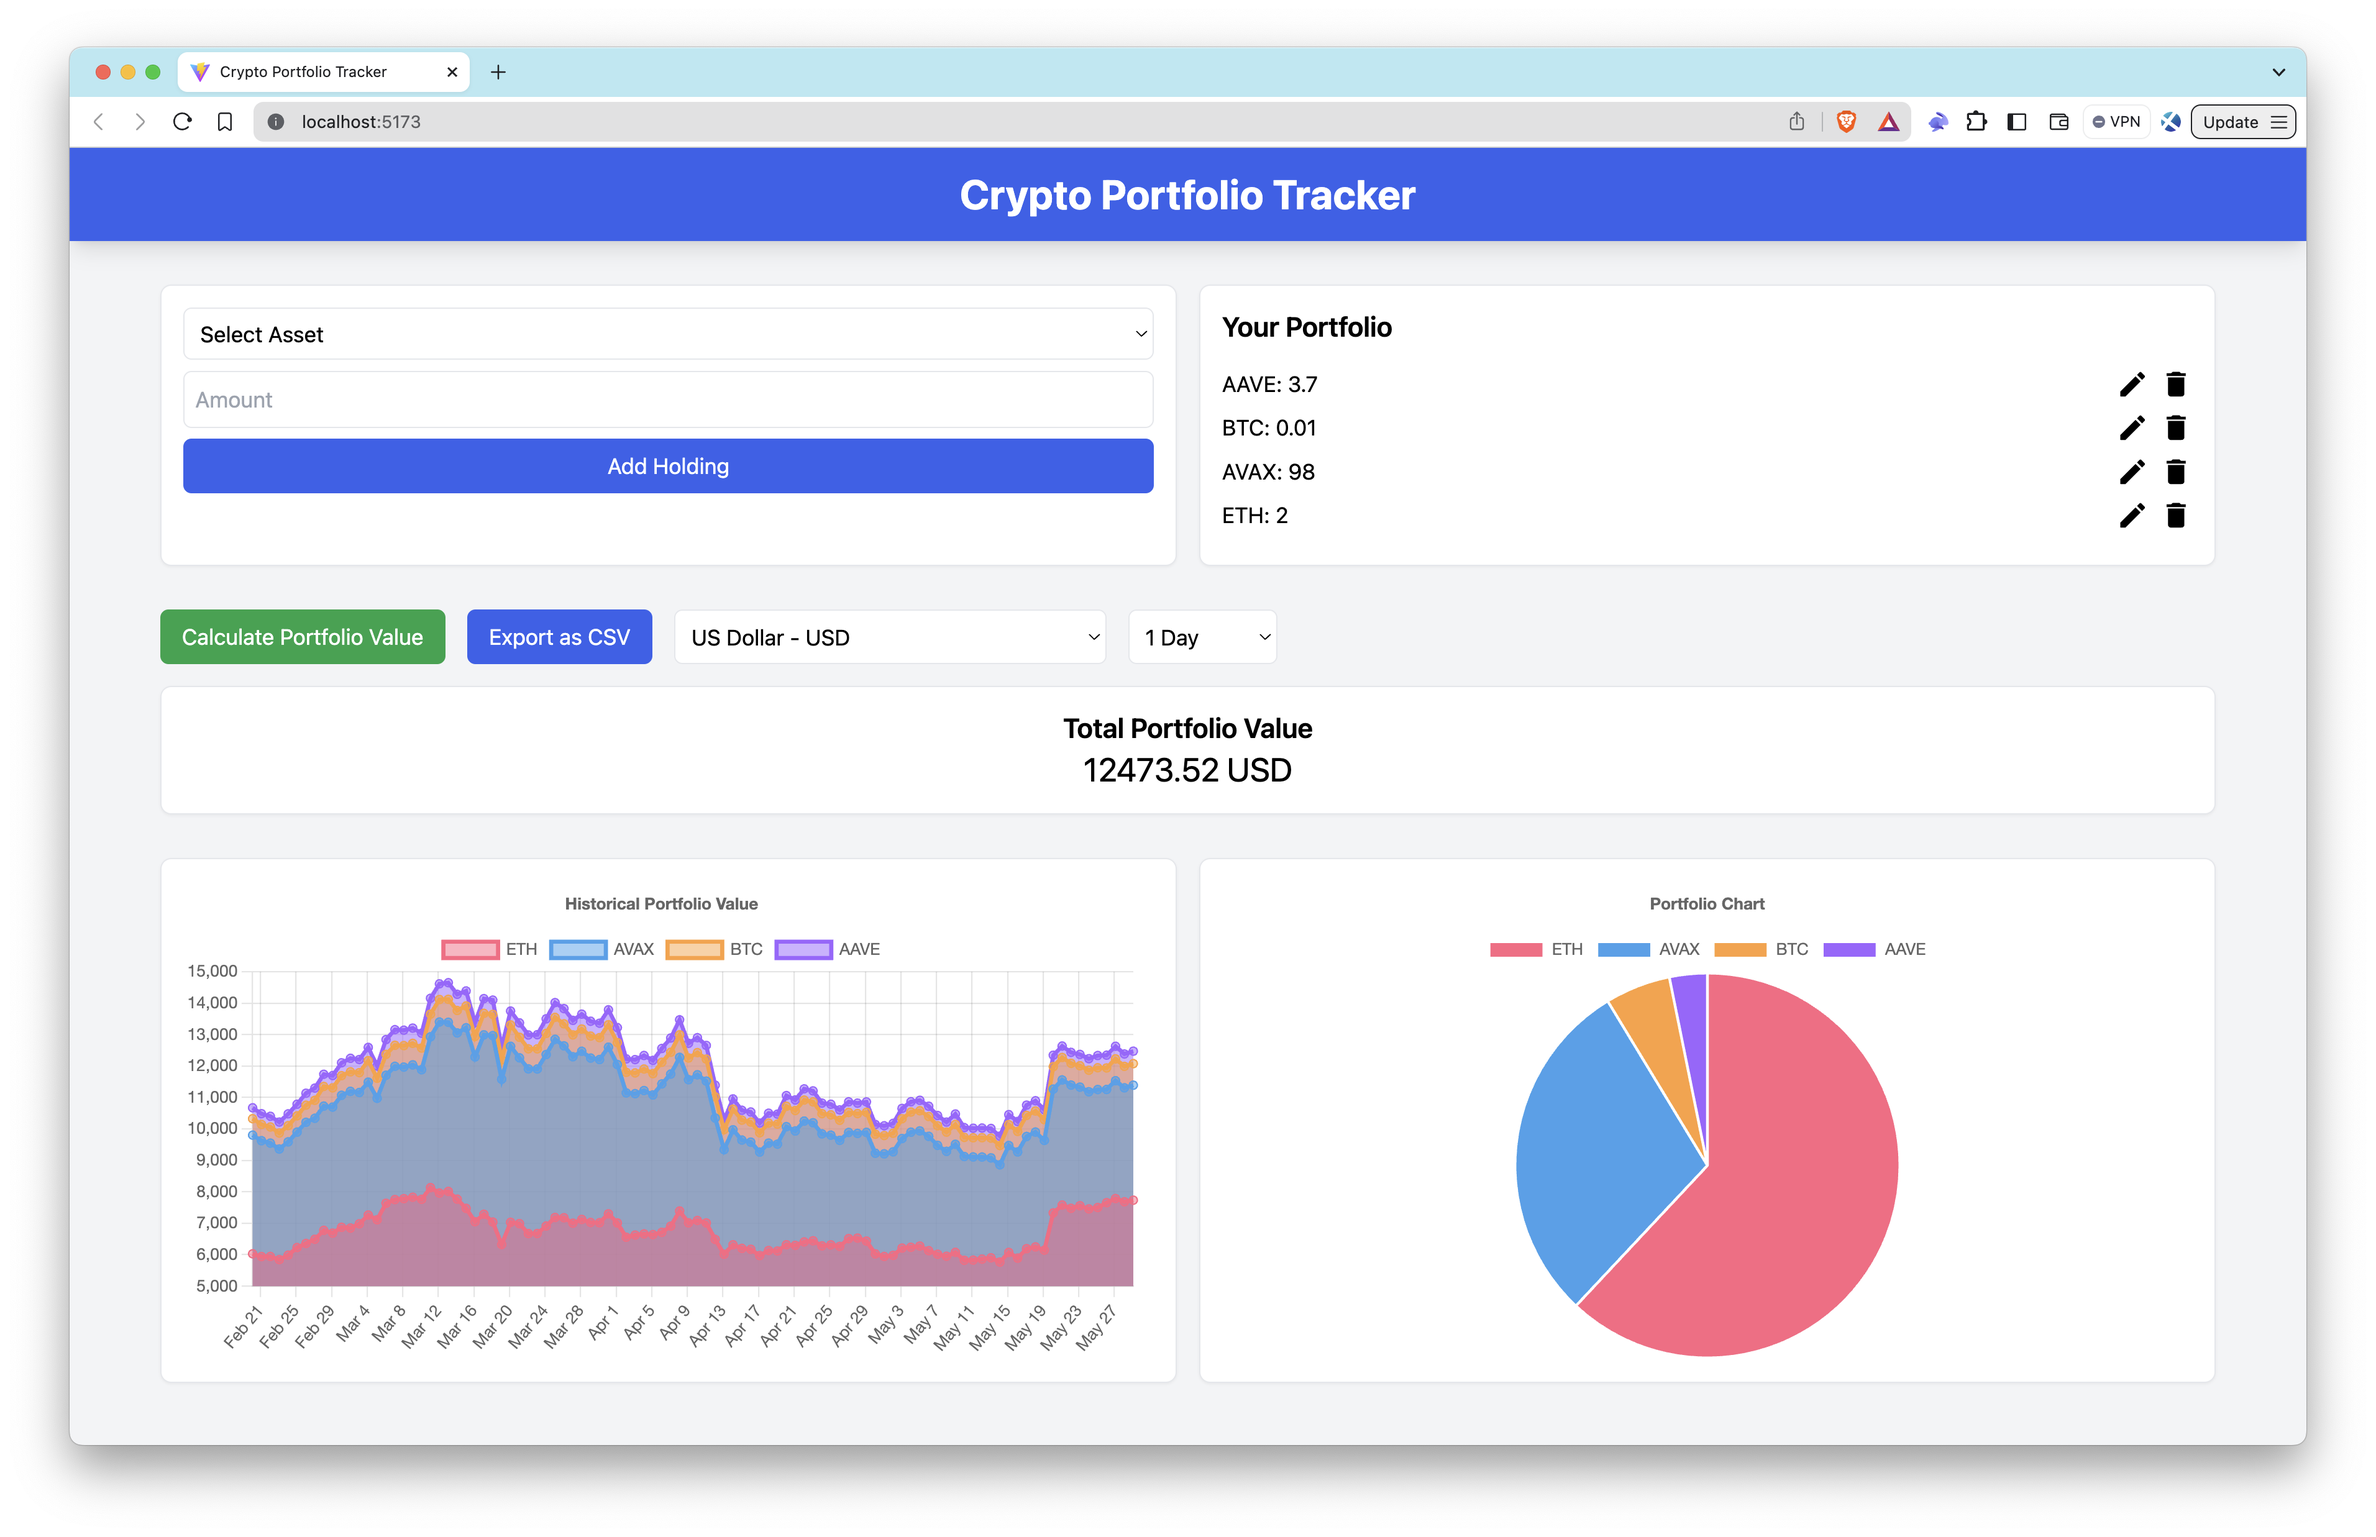
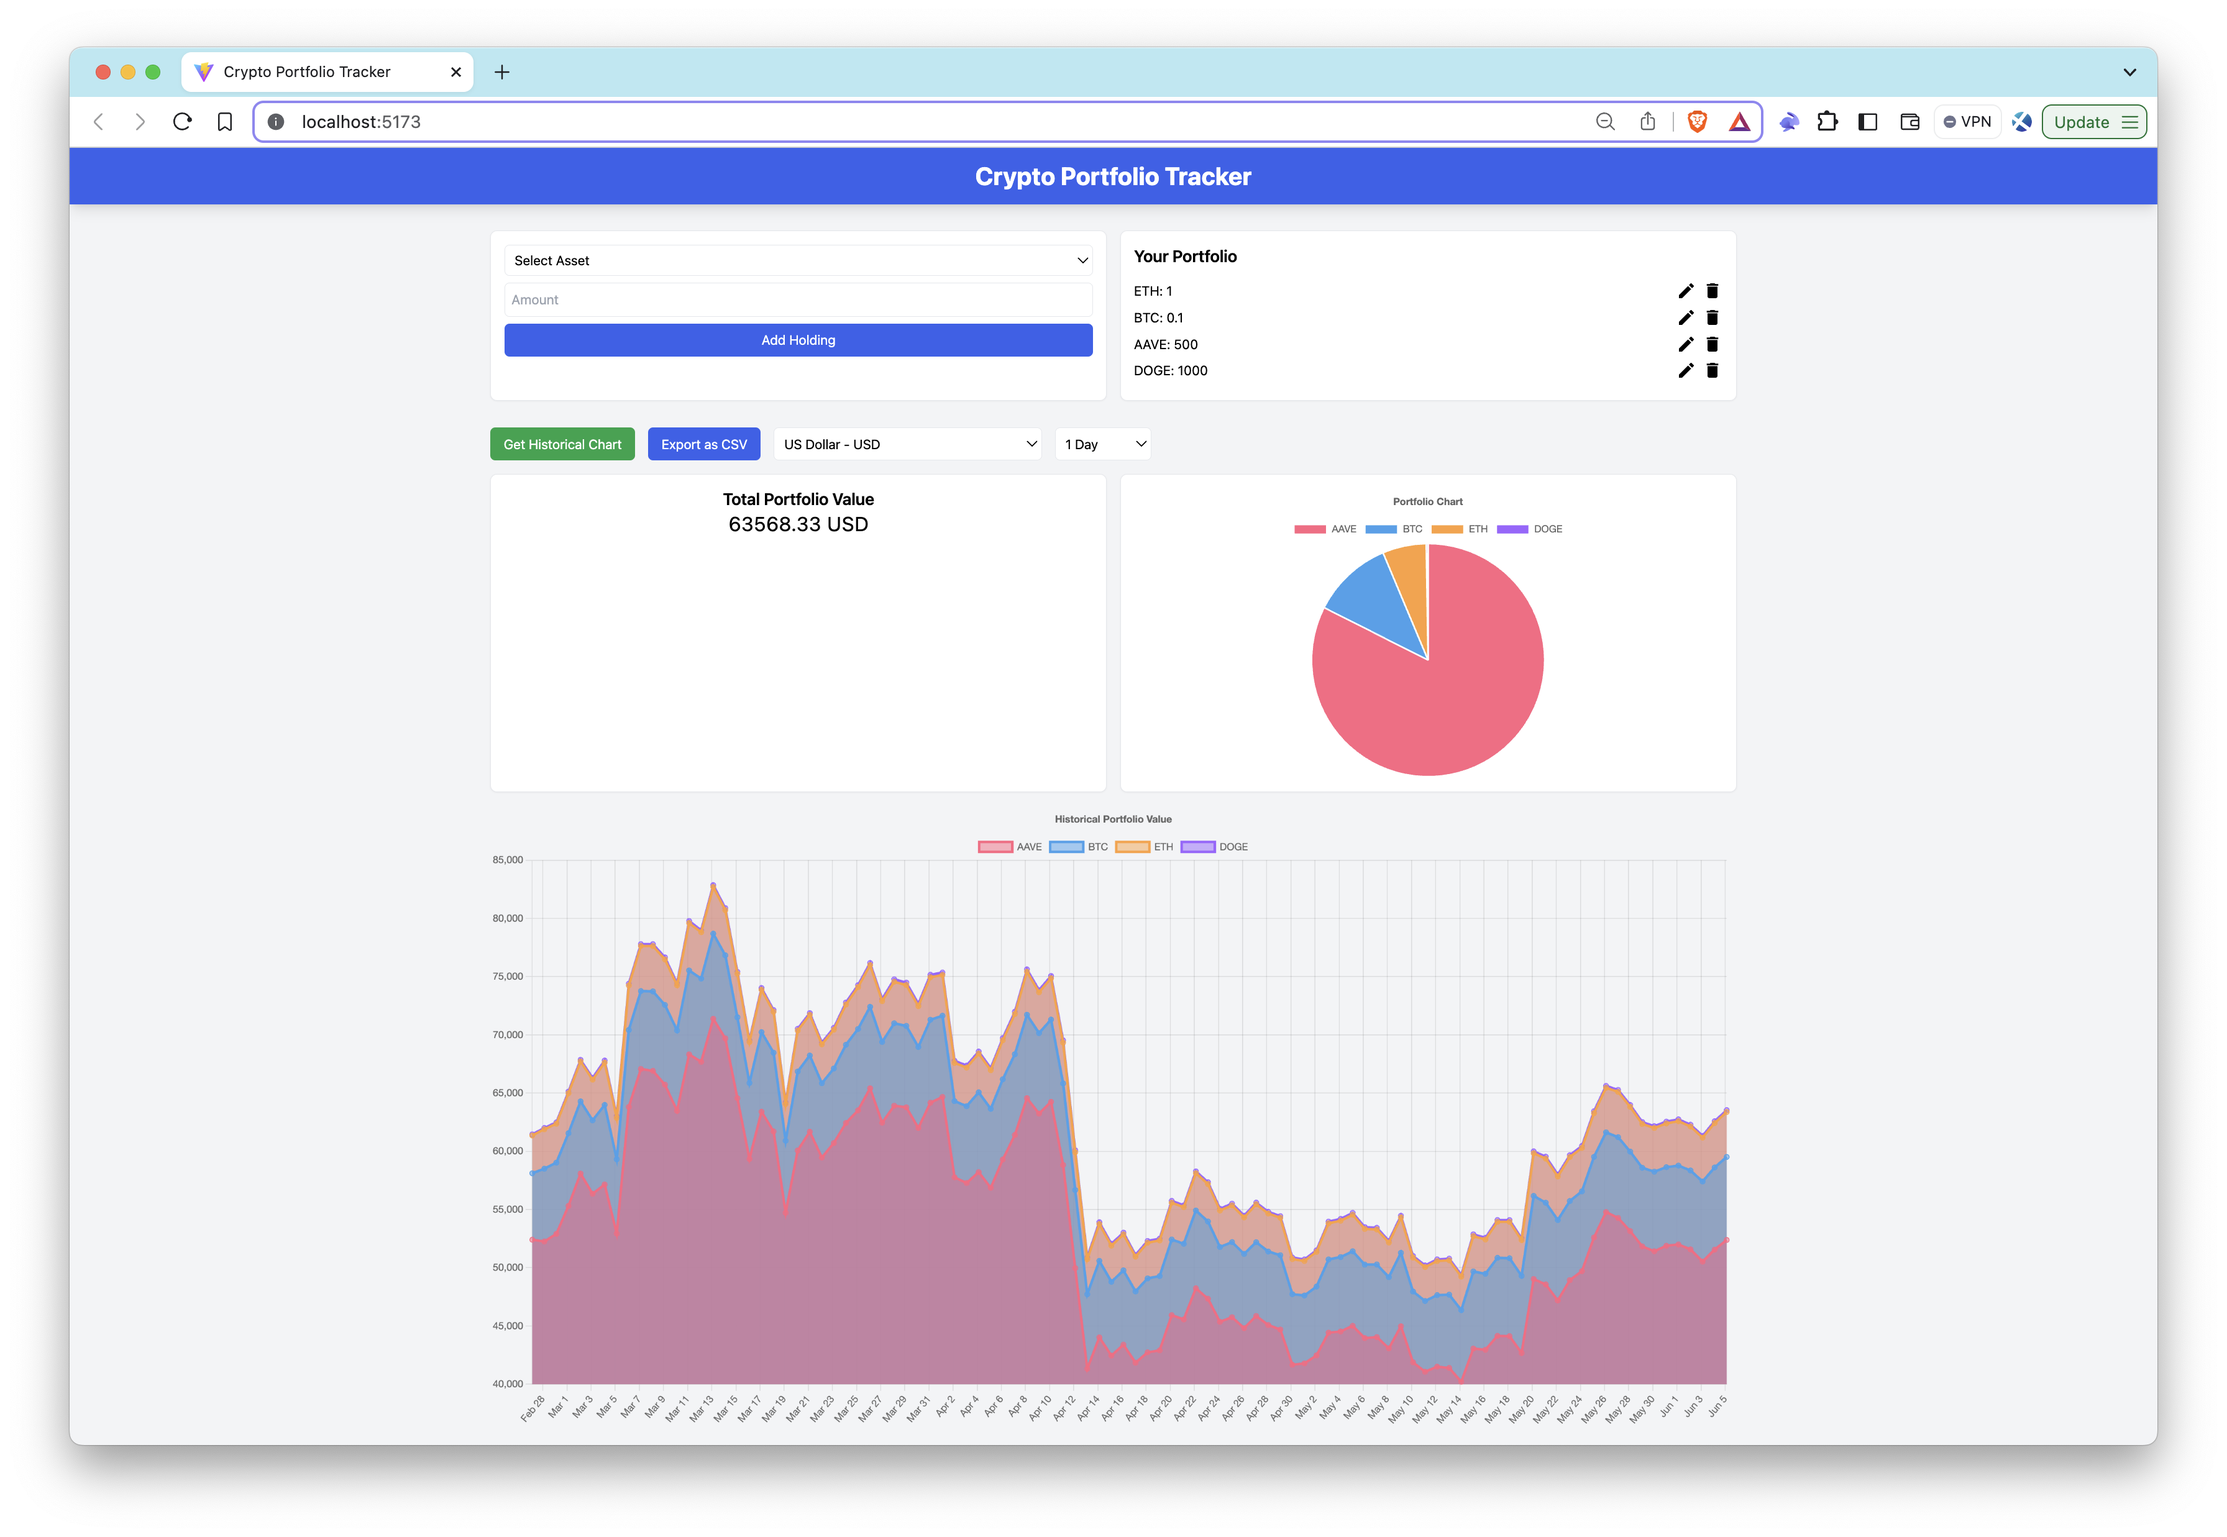
updating current values after each update on the portfolio

diff --git a/sample-dapps/crypto-portfolio-tracker-with-the-crypto-market-data-api/src/App.tsx b/sample-dapps/crypto-portfolio-tracker-with-the-crypto-market-data-api/src/App.tsx
@@ -13,6 +13,7 @@ import {
   updateHolding,
   removeHolding,
   fetchPortfolioData,
+  fetchTotalPortfolioValue,
   handleExportCSV,
 } from "./utils/portfolioUtils";
 
@@ -36,8 +37,6 @@ const App: React.FC = () => {
   const [initialized, setInitialized] = useState(false);
   const [loading, setLoading] = useState(false);
 
-
-
   useEffect(() => {
     // Load holdings from local storage
     const storedHoldings = localStorage.getItem("holdings");
@@ -60,9 +59,20 @@ const App: React.FC = () => {
     if (initialized) {
       // Save holdings to local storage
       localStorage.setItem("holdings", JSON.stringify(holdings));
-      // Clear results when holdings change
-      setTotalValue(0);
+      // // Clear results when holdings change
+      // setTotalValue(0);
       setHistoricalData([]);
+      // Automatically fetch total portfolio value
+      const fetchTotalValue = async () => {
+        await fetchTotalPortfolioValue(
+          holdings,
+          currency,
+          setExchangeRates,
+          setTotalValue,
+          setLoading
+        );
+      };
+      fetchTotalValue();
     }
   }, [holdings, currency, initialized]);
 
@@ -113,10 +123,9 @@ const App: React.FC = () => {
 
         {!loading && totalValue !== 0 && (
           <div>
-            <PortfolioSummary totalValue={totalValue} currency={currency} />
             <div className="flex space-x-4">
-              <div className="w-1/2 my-4 p-4 border rounded-lg shadow-sm bg-white h-96">
-                <HistoricalChart data={historicalData} currency={currency} />
+              <div className="w-1/2 my-4 p-4 border rounded-lg shadow-sm bg-white h-96 text-center">
+                <PortfolioSummary totalValue={totalValue} currency={currency} />
               </div>
               <div className="w-1/2 my-4 p-4 border rounded-lg shadow-sm bg-white h-96">
                 <PortfolioPieChart
@@ -126,6 +135,7 @@ const App: React.FC = () => {
                 />
               </div>
             </div>
+            <HistoricalChart data={historicalData} currency={currency} />
           </div>
         )}
       </div>

diff --git a/sample-dapps/crypto-portfolio-tracker-with-the-crypto-market-data-api/src/utils/portfolioUtils.ts b/sample-dapps/crypto-portfolio-tracker-with-the-crypto-market-data-api/src/utils/portfolioUtils.ts
@@ -103,6 +103,42 @@ export const fetchPortfolioData = async (
   }
 };
 
+export const fetchTotalPortfolioValue = async (
+  holdings: PortfolioHolding[],
+  currency: string,
+  setExchangeRates: (rates: { [key: string]: number }) => void,
+  setTotalValue: (value: number) => void,
+  setLoading: (loading: boolean) => void
+) => {
+  try {
+    setLoading(true);
+
+    const currentRates = await Promise.all(
+      holdings.map((holding) =>
+        fetchCurrentExchangeRates(holding.asset, currency)
+      )
+    );
+
+    const exchangeRatesMap: { [key: string]: number } = {};
+    currentRates.forEach((rate) => {
+      exchangeRatesMap[`${rate.asset_id_base}-${rate.asset_id_quote}`] =
+        rate.rate;
+    });
+    setExchangeRates(exchangeRatesMap);
+
+    const totalValue = holdings.reduce((acc, holding) => {
+      const rate = exchangeRatesMap[`${holding.asset}-${currency}`] || 0;
+      return acc + holding.amount * rate;
+    }, 0);
+
+    setTotalValue(totalValue);
+  } catch (error) {
+    console.error(error);
+  } finally {
+    setLoading(false);
+  }
+};
+
 // Handle CSV export
 export const handleExportCSV = (historicalData: HistoricalDataEntry[]) => {
   exportToCSV(historicalData, "portfolio_value");

diff --git a/sample-dapps/crypto-portfolio-tracker-with-the-crypto-market-data-api/src/components/PortfolioPieChart.tsx b/sample-dapps/crypto-portfolio-tracker-with-the-crypto-market-data-api/src/components/PortfolioPieChart.tsx
@@ -1,5 +1,5 @@
 // src/components/PortfolioPieChart.tsx
-import React, { useEffect } from "react";
+import React from "react";
 import { Pie } from "react-chartjs-2";
 import { Chart, registerables } from "chart.js";
 import { PortfolioHolding } from "../interfaces";
@@ -18,11 +18,6 @@ const PortfolioPieChart: React.FC<PortfolioPieChartProps> = ({
   exchangeRates,
   currency,
 }) => {
-  useEffect(() => {
-    console.log("Holdings:", holdings);
-    console.log("Exchange Rates:", exchangeRates);
-  }, [holdings, exchangeRates]);
-
   if (!holdings || holdings.length === 0 || !exchangeRates) {
     return <div>No data available</div>;
   }

diff --git a/sample-dapps/crypto-portfolio-tracker-with-the-crypto-market-data-api/src/components/HistoricalChart.tsx b/sample-dapps/crypto-portfolio-tracker-with-the-crypto-market-data-api/src/components/HistoricalChart.tsx
@@ -34,14 +34,10 @@ interface HistoricalChartProps {
   currency: string;
 }
 
-const HistoricalChart: React.FC<HistoricalChartProps> = ({
-  data,
-}) => {
+const HistoricalChart: React.FC<HistoricalChartProps> = ({ data }) => {
   if (!data || data.length === 0) {
-    return <div>No data available</div>;
+    return <div>No historical data</div>;
   }
-
-  console.log("data", data);
 
   const labels = data.map((entry) => entry.date);
   // const assets = Object.keys(data[0]).filter((key) => key !== "date");

diff --git a/sample-dapps/crypto-portfolio-tracker-with-the-crypto-market-data-api/src/components/PortfolioSummary.tsx b/sample-dapps/crypto-portfolio-tracker-with-the-crypto-market-data-api/src/components/PortfolioSummary.tsx
@@ -7,7 +7,7 @@ const PortfolioSummary: React.FC<PortfolioSummaryProps> = ({
   currency,
 }) => {
   return (
-    <div className="my-4 p-4 border rounded-lg shadow-sm bg-white text-center">
+    <div>
       <h2 className="text-xl font-semibold">Total Portfolio Value</h2>
       <p className="text-2xl">
         {totalValue.toFixed(2)} {currency}

diff --git a/sample-dapps/crypto-portfolio-tracker-with-the-crypto-market-data-api/src/components/PortfolioControls.tsx b/sample-dapps/crypto-portfolio-tracker-with-the-crypto-market-data-api/src/components/PortfolioControls.tsx
@@ -27,7 +27,7 @@ const PortfolioControls: React.FC<PortfolioControlsProps> = ({
       onClick={calculatePortfolioValue}
       className="bg-green-600 text-white py-2 px-4 rounded-md"
     >
-      Calculate Portfolio Value
+      Get Historical Chart
     </button>
     <button
       onClick={exportCSV}

diff --git a/sample-dapps/crypto-portfolio-tracker-with-the-crypto-market-data-api/README.md b/sample-dapps/crypto-portfolio-tracker-with-the-crypto-market-data-api/README.md
@@ -78,7 +78,8 @@ Open [http://localhost:5173/](http://localhost:5173/) with your browser to see t
 - **Manage Holdings**: Edit or remove holdings as needed.
 - **Select Currency**: Choose the currency in which to view your portfolio value.
 - **Select Time Interval**: Choose the time interval for viewing historical portfolio value (e.g., 5 Minutes, 1 Hour, 1 Day).
-- **View Portfolio Value**: Click **Calculate Portfolio Value** to fetch the current and historical values.
+- **View Current Portfolio Value**: The current portfolio value and pie chart are fetched immediately after you add or update assets to your holding.
+- **View Historical Portfolio Value**: Click **Calculate Portfolio Value** to fetch the historical values.
 - **Export Data**: Click **Export as CSV** to download your historical portfolio value data.
 
 ## Project Structure
